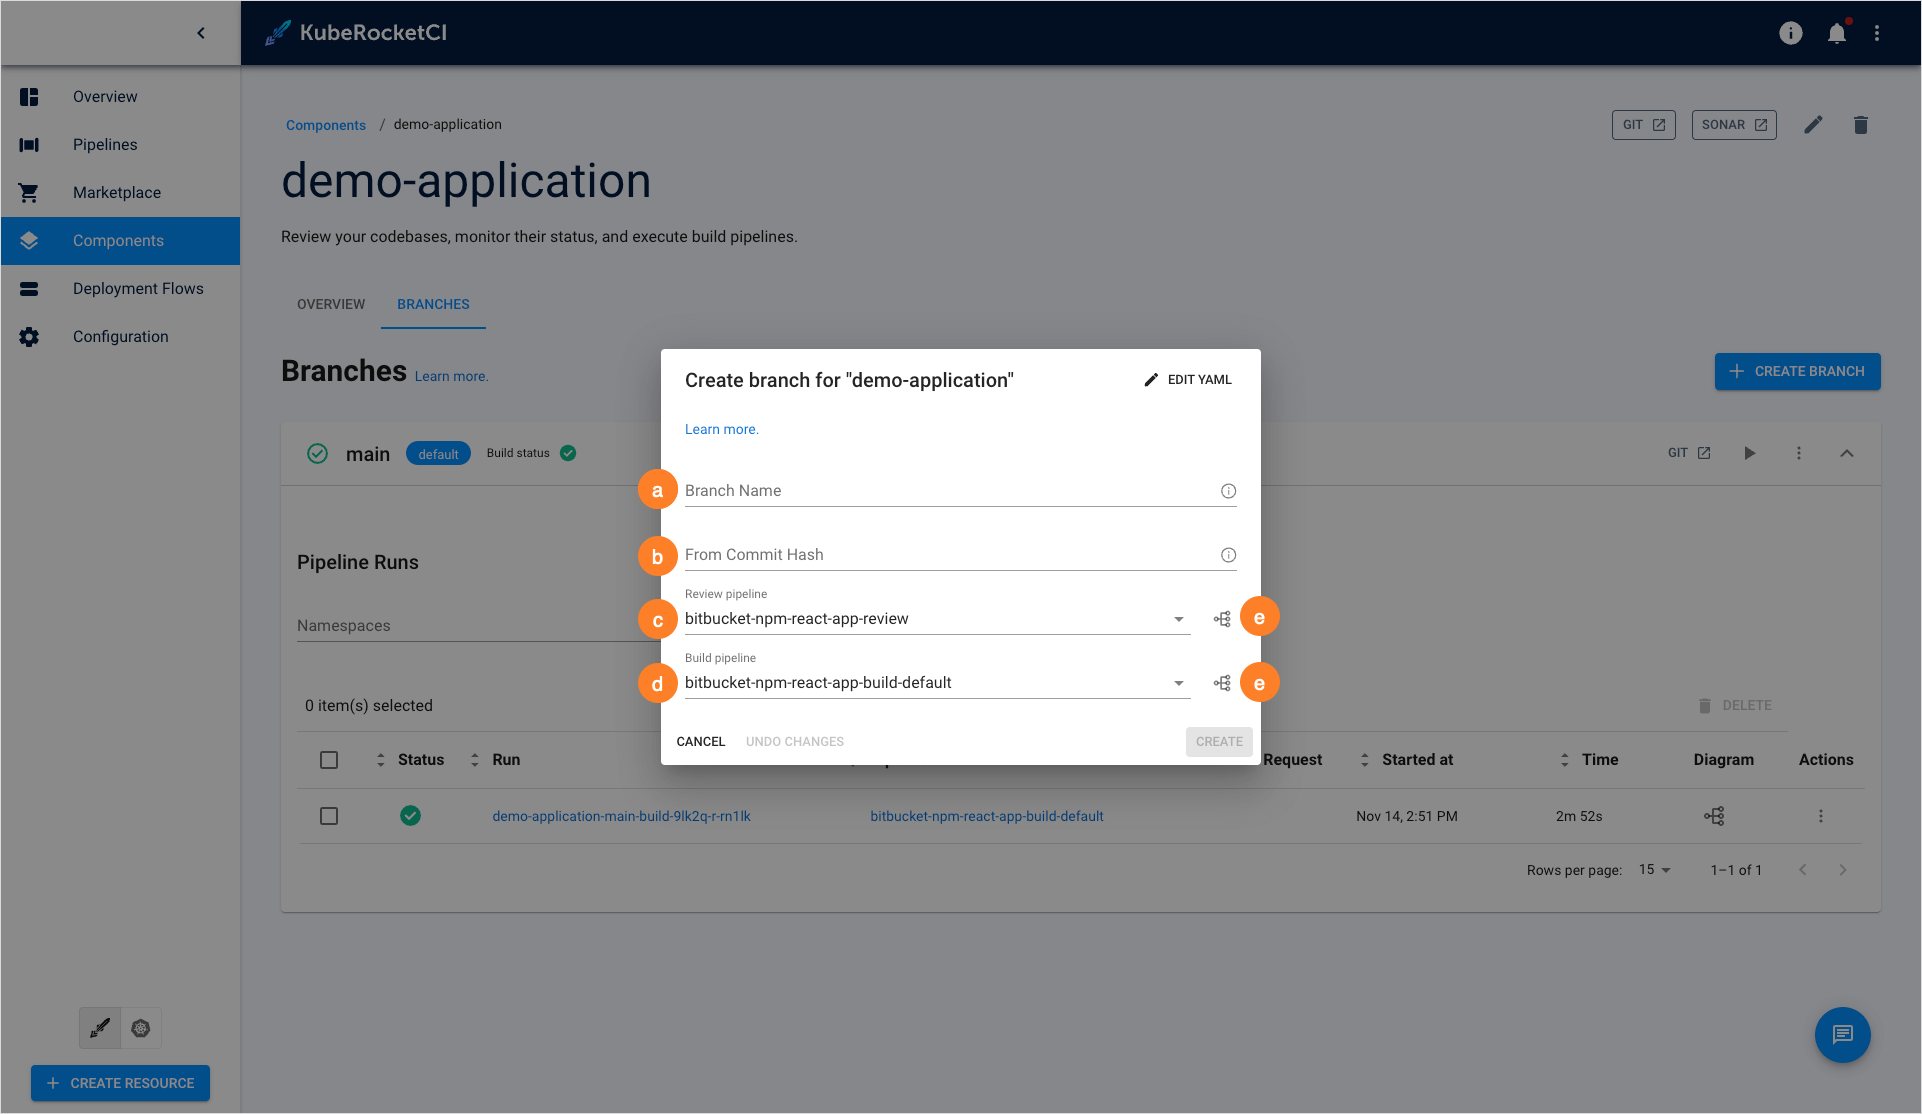
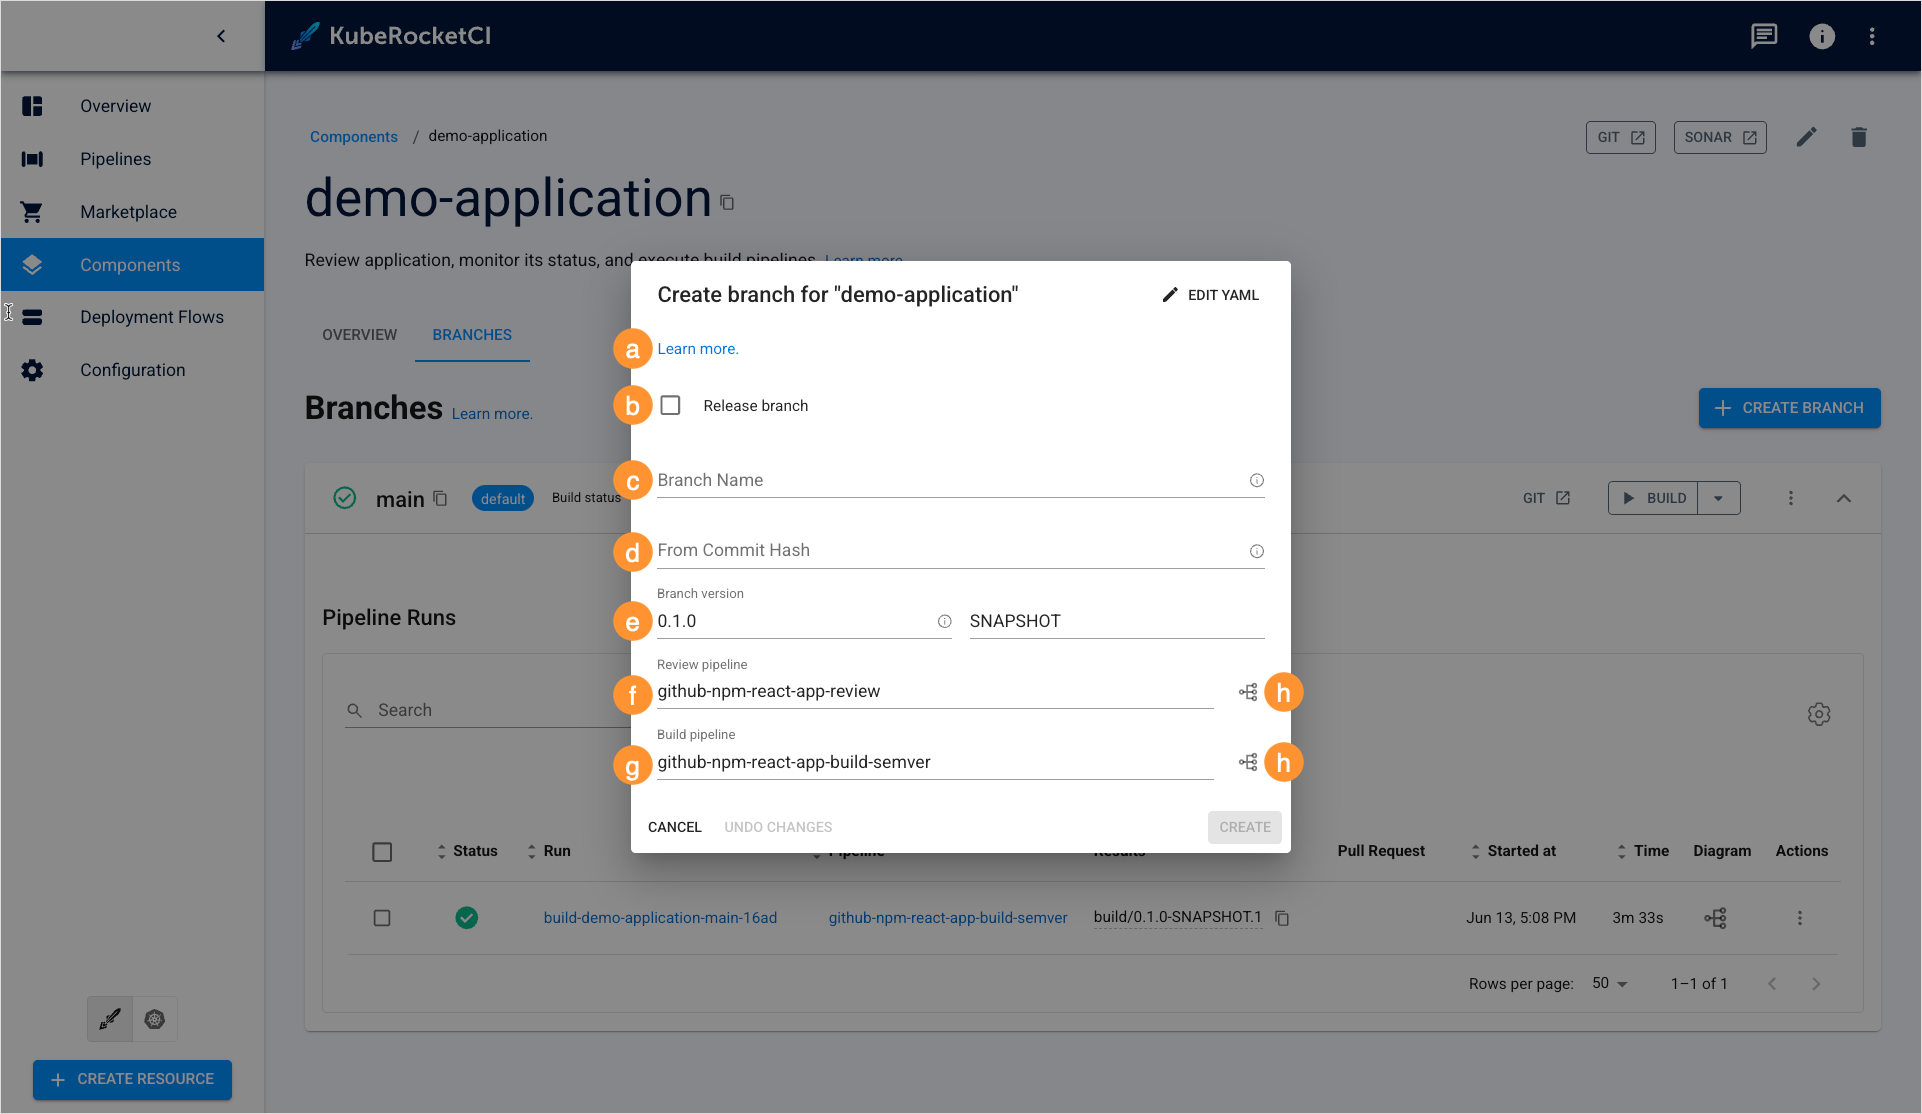
docs: Update the Manage Branches page in docs (#475)

diff --git a/versioned_docs/version-3.10/user-guide/manage-branches.md b/versioned_docs/version-3.10/user-guide/manage-branches.md
@@ -15,12 +15,16 @@ description: "Explore branch management in KubeRocketCI, from adding new branche
 
 This page describes how to manage branches in the created component, whether it is an application, library, autotest or infrastructure. It also briefly explains two approaches of managing custom pipelines for codebases.
 
+<div style={{ display: 'flex', justifyContent: 'center' }}>
+<iframe width="560" height="315" src="https://www.youtube-nocookie.com/embed/AsWQKiRvNDY" title="Integrate KubeRocketCI with Nexus" frameborder="0" allow="accelerometer; autoplay; clipboard-write; encrypted-media; gyroscope; picture-in-picture" allowfullscreen="allowfullscreen"></iframe>
+</div>
+
 ## Pipeline Management
 
-There are two approaches to define a codebases with Tekton pipelines:
+There are two approaches to define codebases with Tekton pipelines:
 
-  * Using [build tool and framework](../use-cases/tekton-custom-pipelines.md)
-  * Using codebase [branch settings](../use-cases/custom-pipelines-flow.md)
+  * Using [build tool and framework](../use-cases/tekton-custom-pipelines.md);
+  * Using codebase [branch settings](../use-cases/custom-pipelines-flow.md).
 
 ### Build Tool/Framework Approach
 
@@ -44,10 +48,10 @@ If you need to frequently and quickly redefine a build or review pipeline, this 
 ## Add New Branch
 
 :::note
-  When working with libraries, pay attention when specifying the branch name: the branch name is involved in the formation of the library version, so it must comply with the [semantic versioning](https://semver.org/) rules for the library.
+  When working with libraries, pay attention to specifying the branch name: the branch name is involved in the formation of the library version, so it must comply with the [semantic versioning](https://semver.org/) rules for the library.
 :::
 
-When adding a component, the default branch is a **main** branch. In order to add a new branch, follow the steps below:
+When adding a component, the default branch is **main**. To add a new branch, follow the steps below:
 
 1. Navigate to the **Branches** block by clicking the component name link in the Components list.
 
@@ -57,15 +61,30 @@ When adding a component, the default branch is a **main** branch. In order to ad
 
   ![New branch](../assets/user-guide/components/branches/branches-create-new-branch.png "New branch")
 
-    a. **Branch name** - type the branch name. Pay attention that this field remains static if you create a release branch. For the **Clone** and **Import** strategies: if you want to use the existing branch, enter its name into this field.
+    a. **Learn more** - opens a documentation page the explains how to [add new branch](../user-guide/manage-branches.md#add-new-branch).
 
-    b. **From commit hash** - paste the commit hash from which the branch will be created. For the **Clone** and **Import** strategies: Note that if the **From commit hash** field is empty, the latest commit from the branch name will be used.
+    b. **Release branch** - select this option to make a release branch. Codebases from release branches are marked with a different tag.
 
-    c. **Build pipeline** - select the build pipeline you want to use to build the application or leave the default one.
+  :::note
+  When working with release branches, keep in mind that only the **semver** versioning type supports release branches. In the **default** versioning type, this option is unavailable.
+  Additionally, the SNAPSHOT version is reset each time you create a release branch.
+  :::
 
-    d. **Review pipeline** - select the review pipeline you want to use to review the application or leave the default one.
+    When the **Release branch** option is selected, you will also need to specify release tag the application will be marked:
 
-    e. **View diagram** - view the pipeline to verify this is the exact pipeline you need:
+    ![Release branch](../assets/user-guide/components/branches/branches-release-branch.png "Release branch")
+
+    c. **Branch name** - type the branch name. Note that this field remains static if you create a release branch. For the **Clone** and **Import** strategies: if you want to use an existing branch, enter its name in this field.
+
+    d. **From commit hash** - paste the commit hash from which the branch will be created. For the **Clone** and **Import** strategies: Note that if the **From commit hash** field is empty, the latest commit from the branch name will be used.
+
+    e. **Branch version** - specify the application version and tag (SNAPSHOT by default).
+
+    f. **Build pipeline** - select the build pipeline you want to use to build the application or leave the default one.
+
+    g. **Review pipeline** - select the review pipeline you want to use to review the application or leave the default one.
+
+    h. **View diagram** - view the pipeline to verify this is the exact pipeline you need:
 
     ![View pipeline diagram](../assets/user-guide/components/branches/branches-pipeline-diagram.png "View pipeline diagram")
 
@@ -78,8 +97,12 @@ When adding a component, the default branch is a **main** branch. In order to ad
   ![Yaml edit](../assets/user-guide/components/branches/branches-yaml-edit.png "Yaml edit")
 
   :::info
-    Adding of a new branch is indicated in the context of the `EDP versioning` type.
+    Adding of a new branch is indicated in the context of the `semver` versioning type.
   :::
+
+## Add Existing Branch
+
+Onboarding a branch that has already been created in Git to the platform follows the same steps as when you [add a new branch](../user-guide/manage-branches.md#add-new-branch).
 
 ## Edit Existing Branch
 
@@ -131,6 +154,7 @@ The tree diagram window is presented below:
 
 :::note
   The default **master/main** branch cannot be removed.
+  Additionally, deleting a branch in the portal doesn’t remove it from Git. It is required to delete it there as well if necessary.
 :::
 
 In order to delete the added branch with the corresponding record in the KubeRocketCI portal database, do the following:

diff --git a/docs/user-guide/manage-branches.md b/docs/user-guide/manage-branches.md
@@ -15,12 +15,16 @@ description: "Explore branch management in KubeRocketCI, from adding new branche
 
 This page describes how to manage branches in the created component, whether it is an application, library, autotest or infrastructure. It also briefly explains two approaches of managing custom pipelines for codebases.
 
+<div style={{ display: 'flex', justifyContent: 'center' }}>
+<iframe width="560" height="315" src="https://www.youtube-nocookie.com/embed/AsWQKiRvNDY" title="Integrate KubeRocketCI with Nexus" frameborder="0" allow="accelerometer; autoplay; clipboard-write; encrypted-media; gyroscope; picture-in-picture" allowfullscreen="allowfullscreen"></iframe>
+</div>
+
 ## Pipeline Management
 
-There are two approaches to define a codebases with Tekton pipelines:
+There are two approaches to define codebases with Tekton pipelines:
 
-  * Using [build tool and framework](../use-cases/tekton-custom-pipelines.md)
-  * Using codebase [branch settings](../use-cases/custom-pipelines-flow.md)
+  * Using [build tool and framework](../use-cases/tekton-custom-pipelines.md);
+  * Using codebase [branch settings](../use-cases/custom-pipelines-flow.md).
 
 ### Build Tool/Framework Approach
 
@@ -44,10 +48,10 @@ If you need to frequently and quickly redefine a build or review pipeline, this 
 ## Add New Branch
 
 :::note
-  When working with libraries, pay attention when specifying the branch name: the branch name is involved in the formation of the library version, so it must comply with the [semantic versioning](https://semver.org/) rules for the library.
+  When working with libraries, pay attention to specifying the branch name: the branch name is involved in the formation of the library version, so it must comply with the [semantic versioning](https://semver.org/) rules for the library.
 :::
 
-When adding a component, the default branch is a **main** branch. In order to add a new branch, follow the steps below:
+When adding a component, the default branch is **main**. To add a new branch, follow the steps below:
 
 1. Navigate to the **Branches** block by clicking the component name link in the Components list.
 
@@ -57,15 +61,30 @@ When adding a component, the default branch is a **main** branch. In order to ad
 
   ![New branch](../assets/user-guide/components/branches/branches-create-new-branch.png "New branch")
 
-    a. **Branch name** - type the branch name. Pay attention that this field remains static if you create a release branch. For the **Clone** and **Import** strategies: if you want to use the existing branch, enter its name into this field.
+    a. **Learn more** - opens a documentation page the explains how to [add new branch](../user-guide/manage-branches.md#add-new-branch).
 
-    b. **From commit hash** - paste the commit hash from which the branch will be created. For the **Clone** and **Import** strategies: Note that if the **From commit hash** field is empty, the latest commit from the branch name will be used.
+    b. **Release branch** - select this option to make a release branch. Codebases from release branches are marked with a different tag.
 
-    c. **Build pipeline** - select the build pipeline you want to use to build the application or leave the default one.
+  :::note
+  When working with release branches, keep in mind that only the **semver** versioning type supports release branches. In the **default** versioning type, this option is unavailable.
+  Additionally, the SNAPSHOT version is reset each time you create a release branch.
+  :::
 
-    d. **Review pipeline** - select the review pipeline you want to use to review the application or leave the default one.
+    When the **Release branch** option is selected, you will also need to specify release tag the application will be marked:
 
-    e. **View diagram** - view the pipeline to verify this is the exact pipeline you need:
+    ![Release branch](../assets/user-guide/components/branches/branches-release-branch.png "Release branch")
+
+    c. **Branch name** - type the branch name. Note that this field remains static if you create a release branch. For the **Clone** and **Import** strategies: if you want to use an existing branch, enter its name in this field.
+
+    d. **From commit hash** - paste the commit hash from which the branch will be created. For the **Clone** and **Import** strategies: Note that if the **From commit hash** field is empty, the latest commit from the branch name will be used.
+
+    e. **Branch version** - specify the application version and tag (SNAPSHOT by default).
+
+    f. **Build pipeline** - select the build pipeline you want to use to build the application or leave the default one.
+
+    g. **Review pipeline** - select the review pipeline you want to use to review the application or leave the default one.
+
+    h. **View diagram** - view the pipeline to verify this is the exact pipeline you need:
 
     ![View pipeline diagram](../assets/user-guide/components/branches/branches-pipeline-diagram.png "View pipeline diagram")
 
@@ -80,6 +99,10 @@ When adding a component, the default branch is a **main** branch. In order to ad
   :::info
     Adding of a new branch is indicated in the context of the `semver` versioning type.
   :::
+
+## Add Existing Branch
+
+Onboarding a branch that has already been created in Git to the platform follows the same steps as when you [add a new branch](../user-guide/manage-branches.md#add-new-branch).
 
 ## Edit Existing Branch
 
@@ -131,6 +154,7 @@ The tree diagram window is presented below:
 
 :::note
   The default **master/main** branch cannot be removed.
+  Additionally, deleting a branch in the portal doesn’t remove it from Git. It is required to delete it there as well if necessary.
 :::
 
 In order to delete the added branch with the corresponding record in the KubeRocketCI portal database, do the following:

diff --git a/versioned_docs/version-3.11/user-guide/manage-branches.md b/versioned_docs/version-3.11/user-guide/manage-branches.md
@@ -15,12 +15,16 @@ description: "Explore branch management in KubeRocketCI, from adding new branche
 
 This page describes how to manage branches in the created component, whether it is an application, library, autotest or infrastructure. It also briefly explains two approaches of managing custom pipelines for codebases.
 
+<div style={{ display: 'flex', justifyContent: 'center' }}>
+<iframe width="560" height="315" src="https://www.youtube-nocookie.com/embed/AsWQKiRvNDY" title="Integrate KubeRocketCI with Nexus" frameborder="0" allow="accelerometer; autoplay; clipboard-write; encrypted-media; gyroscope; picture-in-picture" allowfullscreen="allowfullscreen"></iframe>
+</div>
+
 ## Pipeline Management
 
-There are two approaches to define a codebases with Tekton pipelines:
+There are two approaches to define codebases with Tekton pipelines:
 
-  * Using [build tool and framework](../use-cases/tekton-custom-pipelines.md)
-  * Using codebase [branch settings](../use-cases/custom-pipelines-flow.md)
+  * Using [build tool and framework](../use-cases/tekton-custom-pipelines.md);
+  * Using codebase [branch settings](../use-cases/custom-pipelines-flow.md).
 
 ### Build Tool/Framework Approach
 
@@ -44,10 +48,10 @@ If you need to frequently and quickly redefine a build or review pipeline, this 
 ## Add New Branch
 
 :::note
-  When working with libraries, pay attention when specifying the branch name: the branch name is involved in the formation of the library version, so it must comply with the [semantic versioning](https://semver.org/) rules for the library.
+  When working with libraries, pay attention to specifying the branch name: the branch name is involved in the formation of the library version, so it must comply with the [semantic versioning](https://semver.org/) rules for the library.
 :::
 
-When adding a component, the default branch is a **main** branch. In order to add a new branch, follow the steps below:
+When adding a component, the default branch is **main**. To add a new branch, follow the steps below:
 
 1. Navigate to the **Branches** block by clicking the component name link in the Components list.
 
@@ -57,15 +61,30 @@ When adding a component, the default branch is a **main** branch. In order to ad
 
   ![New branch](../assets/user-guide/components/branches/branches-create-new-branch.png "New branch")
 
-    a. **Branch name** - type the branch name. Pay attention that this field remains static if you create a release branch. For the **Clone** and **Import** strategies: if you want to use the existing branch, enter its name into this field.
+    a. **Learn more** - opens a documentation page the explains how to [add new branch](../user-guide/manage-branches.md#add-new-branch).
 
-    b. **From commit hash** - paste the commit hash from which the branch will be created. For the **Clone** and **Import** strategies: Note that if the **From commit hash** field is empty, the latest commit from the branch name will be used.
+    b. **Release branch** - select this option to make a release branch. Codebases from release branches are marked with a different tag.
 
-    c. **Build pipeline** - select the build pipeline you want to use to build the application or leave the default one.
+  :::note
+  When working with release branches, keep in mind that only the **semver** versioning type supports release branches. In the **default** versioning type, this option is unavailable.
+  Additionally, the SNAPSHOT version is reset each time you create a release branch.
+  :::
 
-    d. **Review pipeline** - select the review pipeline you want to use to review the application or leave the default one.
+    When the **Release branch** option is selected, you will also need to specify release tag the application will be marked:
 
-    e. **View diagram** - view the pipeline to verify this is the exact pipeline you need:
+    ![Release branch](../assets/user-guide/components/branches/branches-release-branch.png "Release branch")
+
+    c. **Branch name** - type the branch name. Note that this field remains static if you create a release branch. For the **Clone** and **Import** strategies: if you want to use an existing branch, enter its name in this field.
+
+    d. **From commit hash** - paste the commit hash from which the branch will be created. For the **Clone** and **Import** strategies: Note that if the **From commit hash** field is empty, the latest commit from the branch name will be used.
+
+    e. **Branch version** - specify the application version and tag (SNAPSHOT by default).
+
+    f. **Build pipeline** - select the build pipeline you want to use to build the application or leave the default one.
+
+    g. **Review pipeline** - select the review pipeline you want to use to review the application or leave the default one.
+
+    h. **View diagram** - view the pipeline to verify this is the exact pipeline you need:
 
     ![View pipeline diagram](../assets/user-guide/components/branches/branches-pipeline-diagram.png "View pipeline diagram")
 
@@ -80,6 +99,10 @@ When adding a component, the default branch is a **main** branch. In order to ad
   :::info
     Adding of a new branch is indicated in the context of the `semver` versioning type.
   :::
+
+## Add Existing Branch
+
+Onboarding a branch that has already been created in Git to the platform follows the same steps as when you [add a new branch](../user-guide/manage-branches.md#add-new-branch).
 
 ## Edit Existing Branch
 
@@ -131,6 +154,7 @@ The tree diagram window is presented below:
 
 :::note
   The default **master/main** branch cannot be removed.
+  Additionally, deleting a branch in the portal doesn’t remove it from Git. It is required to delete it there as well if necessary.
 :::
 
 In order to delete the added branch with the corresponding record in the KubeRocketCI portal database, do the following:
